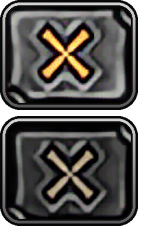
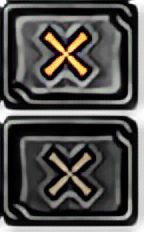
fix(ui): experience bar as wide as the interface; restore Close, Exit and stat (+) button art
- The experience bar under the bottom interface now uses the same centred 640-wide
  layout as the interface, so it has the same width and edges (it was stretched
  across the whole window).
- Restore the earlier art of the Close button, the Exit (X) buttons and the shop
  close button, and the earlier stat (+) button art.
- The options window Close button is drawn from the button art again.

diff --git a/src/source/UI/NewUI/Options/NewUIOptionWindow.cpp b/src/source/UI/NewUI/Options/NewUIOptionWindow.cpp
@@ -338,10 +338,12 @@ namespace
 
     constexpr int WINDOW_WIDTH = 190;
     constexpr int WINDOW_HEIGHT = 419;
-    constexpr int CLOSE_BUTTON_X_LOCAL = 71;
-    constexpr int CLOSE_BUTTON_Y_LOCAL = 395;
-    constexpr int CLOSE_BUTTON_WIDTH = 48;
-    constexpr int CLOSE_BUTTON_HEIGHT = 17;
+    constexpr int CLOSE_BUTTON_X_LOCAL = 73;
+    constexpr int CLOSE_BUTTON_Y_LOCAL = 391;
+    constexpr int CLOSE_BUTTON_WIDTH = 44;
+    constexpr int CLOSE_BUTTON_HEIGHT = 24;
+    constexpr int CLOSE_BUTTON_SOURCE_WIDTH = 54;
+    constexpr int CLOSE_BUTTON_SOURCE_HEIGHT = 30;
     constexpr int PAGER_Y_LOCAL = 375;
     constexpr int PAGER_GENERAL_X_LOCAL = 29;
     constexpr int PAGER_GRAPHICS_X_LOCAL = 96;
@@ -1052,36 +1054,20 @@ void SEASON3B::CNewUIOptionWindow::RenderContents()
                         (float)(PAGER_TAB_WIDTH - 16), 1.f, 0xFFFFBD19u);
 }
 
-void SEASON3B::CNewUIOptionWindow::RenderCloseButton()
-{
-    // A flat dark plate with a thin gold rim and the same gold label as the page tabs,
-    // instead of the bulky stone button artwork.
-    const auto state = m_BtnClose.GetBTState();
-    const bool hover = state == BUTTON_STATE_OVER;
-    const bool down = state == BUTTON_STATE_DOWN;
-    const unsigned int fill = down ? 0xFF0A0805u : (hover ? 0xFF2A200Eu : 0xFF15110Au);
-    const unsigned int rim = (hover || down) ? 0xFFFFBD19u : 0xFF9A7418u;
-
-    const float x = (float)(m_Pos.x + CLOSE_BUTTON_X_LOCAL);
-    const float y = (float)(m_Pos.y + CLOSE_BUTTON_Y_LOCAL);
-    const float w = (float)CLOSE_BUTTON_WIDTH;
-    const float h = (float)CLOSE_BUTTON_HEIGHT;
-    RenderColorQuadARGB(x, y, w, h, fill);
-    RenderColorQuadARGB(x, y, w, 1.f, rim);
-    RenderColorQuadARGB(x, y + h - 1.f, w, 1.f, rim);
-    RenderColorQuadARGB(x, y, 1.f, h, rim);
-    RenderColorQuadARGB(x + w - 1.f, y, 1.f, h, rim);
-
-    g_pRenderText->SetFont(g_hFont);
-    g_pRenderText->SetBgColor(0, 0, 0, 0);
-    g_pRenderText->SetTextColor(RGBA(255, 189, 25, 255));
-    g_pRenderText->RenderText(m_Pos.x + CLOSE_BUTTON_X_LOCAL, m_Pos.y + CLOSE_BUTTON_Y_LOCAL + (down ? 5 : 4), L"Close",
-                              CLOSE_BUTTON_WIDTH, 0, RT3_SORT_CENTER);
-}
-
 void SEASON3B::CNewUIOptionWindow::RenderButtons()
 {
-    RenderCloseButton();
+    // CNewUIButton's ordinary renderer crops sprites when its destination is
+    // smaller than the source. Draw the same state frame through the stretch
+    // helper so the 54x30 artwork scales cleanly to this compact 44x24 button.
+    int closeFrame = 0;
+    if (m_BtnClose.GetBTState() == BUTTON_STATE_OVER)
+        closeFrame = 1;
+    else if (m_BtnClose.GetBTState() == BUTTON_STATE_DOWN)
+        closeFrame = 2;
+    RenderImageStretch(IMAGE_OPTION_BTN_CLOSE, m_Pos.x + CLOSE_BUTTON_X_LOCAL, m_Pos.y + CLOSE_BUTTON_Y_LOCAL,
+                       static_cast<float>(CLOSE_BUTTON_WIDTH), static_cast<float>(CLOSE_BUTTON_HEIGHT), 0.f,
+                       static_cast<float>(closeFrame * CLOSE_BUTTON_SOURCE_HEIGHT),
+                       static_cast<float>(CLOSE_BUTTON_SOURCE_WIDTH), static_cast<float>(CLOSE_BUTTON_SOURCE_HEIGHT));
 
     if (m_iCurrentPage == PAGE_GENERAL)
     {

diff --git a/tests/ui/test_ui_scaling.cpp b/tests/ui/test_ui_scaling.cpp
@@ -633,13 +633,17 @@ TEST_CASE("bottom HUD regional transforms round trip window positions [ui][scali
     CHECK(UI::Scaling::LogicalY(center, UI::Scaling::PositionY(center, 450.0f)) == doctest::Approx(450.0f));
 }
 
-TEST_CASE("experience transform spans the window with HUD vertical scale [ui][scaling]")
+TEST_CASE("experience transform matches the bottom HUD group [ui][scaling]")
 {
     const auto experience = UI::Scaling::BottomHudExperienceTransform(1920, 1200);
-    CHECK(experience.scaleX == doctest::Approx(3.0f));
-    CHECK(experience.scaleY == doctest::Approx(2.0f));
-    CHECK(UI::Scaling::PositionX(experience, 0.0f) == doctest::Approx(0.0f));
-    CHECK(UI::Scaling::PositionX(experience, 640.0f) == doctest::Approx(1920.0f));
+    const auto center = UI::Scaling::BottomHudCenterTransform(1920, 1200);
+    CHECK(experience.scaleX == doctest::Approx(center.scaleX));
+    CHECK(experience.scaleY == doctest::Approx(center.scaleY));
+    CHECK(experience.offsetX == doctest::Approx(center.offsetX));
+    CHECK(experience.offsetY == doctest::Approx(center.offsetY));
+    // Same left and right edge as the 640-wide interface, so the bar is as wide as the interface.
+    CHECK(UI::Scaling::PositionX(experience, 0.0f) == doctest::Approx(UI::Scaling::PositionX(center, 0.0f)));
+    CHECK(UI::Scaling::PositionX(experience, 640.0f) == doctest::Approx(UI::Scaling::PositionX(center, 640.0f)));
     CHECK(UI::Scaling::PositionY(experience, 480.0f) == doctest::Approx(1200.0f));
 }
 

diff --git a/src/source/UI/Scaling/UITransform.cpp b/src/source/UI/Scaling/UITransform.cpp
@@ -134,7 +134,7 @@ float UI::Scaling::BottomHudScale(int windowWidth, int windowHeight)
 }
 
 // The three HUD regions share one centred 640-wide group, so the bar stays contiguous like the original client at
-// any window width. Only the experience bar below stretches across the whole window.
+// any window width. The experience bar uses the same group, so it is exactly as wide as the interface above it.
 UI::Scaling::Transform UI::Scaling::BottomHudLeftTransform(int windowWidth, int windowHeight)
 {
     return BottomHudCenterTransform(windowWidth, windowHeight);
@@ -154,9 +154,7 @@ UI::Scaling::Transform UI::Scaling::BottomHudRightTransform(int windowWidth, int
 
 UI::Scaling::Transform UI::Scaling::BottomHudExperienceTransform(int windowWidth, int windowHeight)
 {
-    Transform transform = BottomHudTransform(windowWidth, windowHeight, 0.0f);
-    transform.scaleX = static_cast<float>(windowWidth) / kReferenceWidth;
-    return transform;
+    return BottomHudCenterTransform(windowWidth, windowHeight);
 }
 
 UI::Scaling::Transform UI::Scaling::DockLeftTransform(int windowWidth, int windowHeight)

diff --git a/src/source/UI/NewUI/Options/NewUIOptionWindow.h b/src/source/UI/NewUI/Options/NewUIOptionWindow.h
@@ -90,7 +90,6 @@ namespace SEASON3B
 
         void RenderFrame();
         void RenderContents();
-        void RenderCloseButton();
         void RenderButtons();
         void ChangePage(int page);
 

diff --git a/docs/ui-hd-textures.md b/docs/ui-hd-textures.md
@@ -116,7 +116,7 @@ The stone window backdrop (`newui_msgbox_back`) is drawn with round corners by e
 ## Bottom HUD layout
 
 The hotkey slots, the orb bar and the menu buttons are one centred group (the original 640-wide layout) at any
-window size; only the experience bar spans the whole window. Earlier builds spread the three parts to the window edges.
+window size. The experience bar under it is exactly as wide as that group and lines up with its edges. Earlier builds spread the parts (and the experience bar) to the window edges.
 
 ## Choosing the model
 
